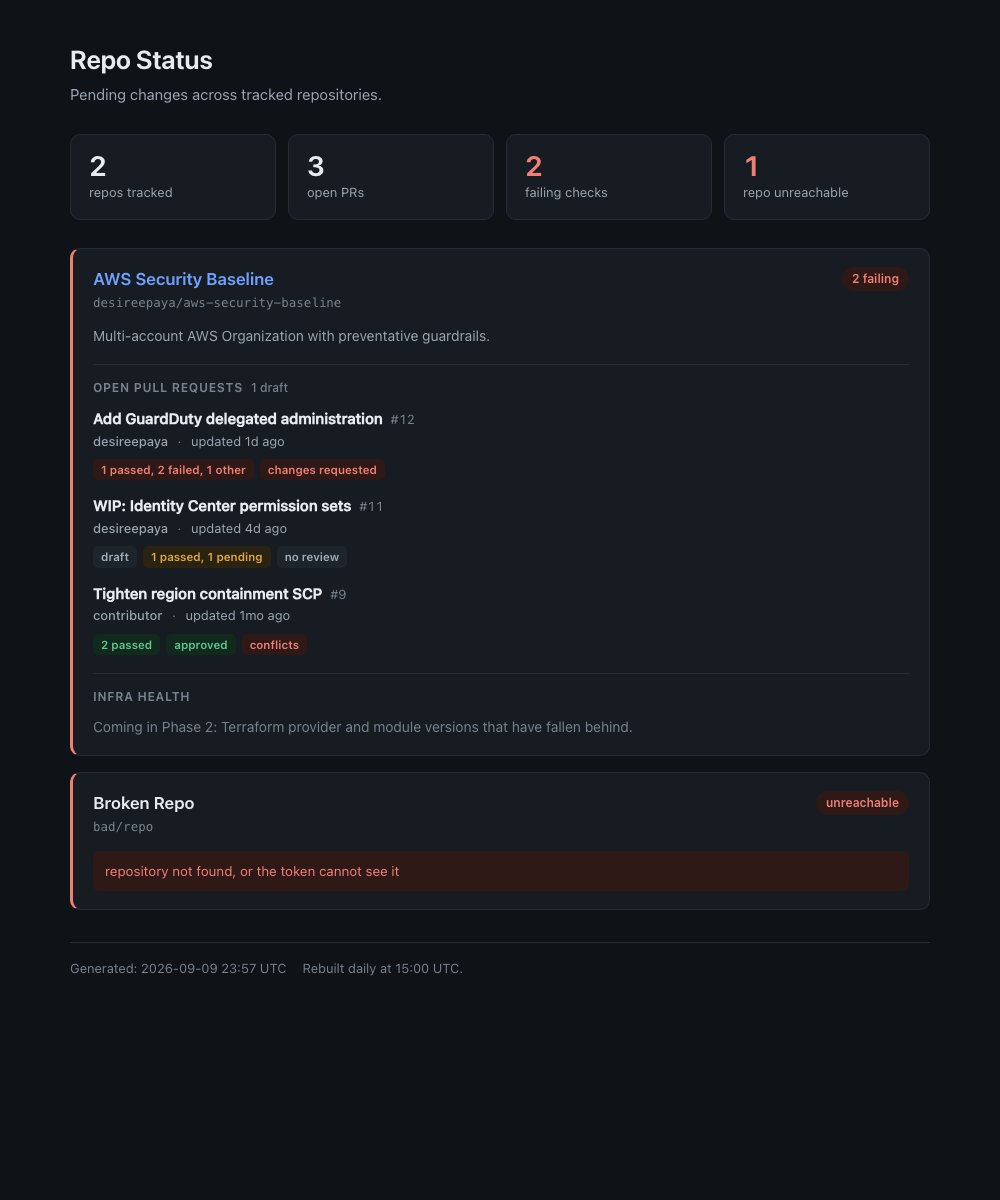
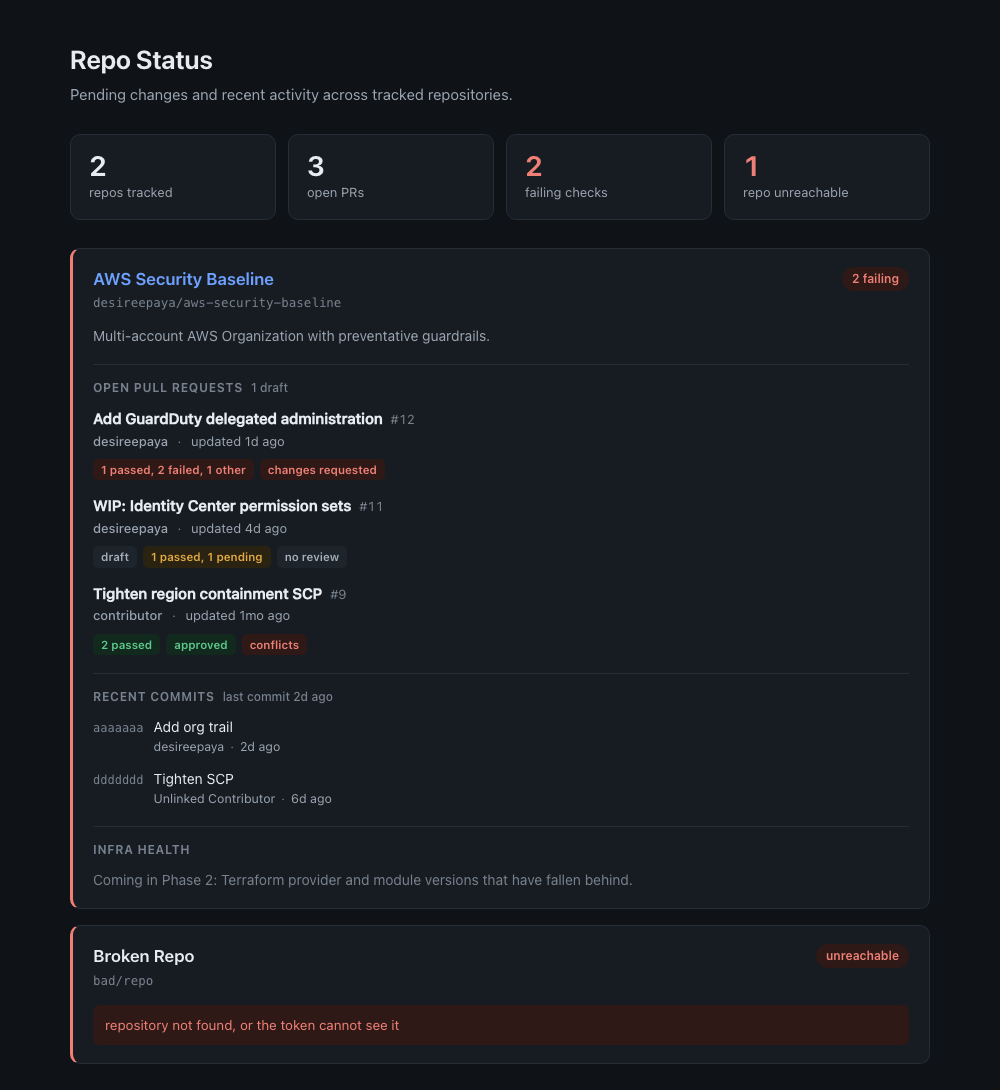
Show recent commits, so the page reflects how the work actually happens
Open PRs measure work waiting for review. Working solo and committing to
main, that is permanently zero, so the dashboard measured a workflow it
was never going to observe and rendered an empty page.

Each card now lists the five newest commits on the default branch with a
"last commit" recency line. One extra request per repo covers both.

No commit count. Granularity varies too much between one substantial
commit and twenty small fixes for the number to mean anything, and a low
count reads as inactive rather than careful. Recency answers the same
question without implying a score.

This widens Phase 1 from "pending changes" to "pending changes and
recent activity". Deliberate, and recorded in the plan.

The README now leads with a screenshot of the real page, which finally
has something on it, and keeps the fixture screenshot as a secondary
image for the PR features that live data cannot currently show.

Claude-Session: https://claude.ai/code/session_01VQ1uppD6jL2XGUz4YRr42J

diff --git a/static/style.css b/static/style.css
@@ -305,6 +305,49 @@ code {
 
 .tag-conflict { background: var(--bad-bg); color: var(--bad); }
 
+/* ---- Commit rows ---- */
+
+.commit-list {
+  list-style: none;
+  margin: 0;
+  padding: 0;
+  display: flex;
+  flex-direction: column;
+  gap: 11px;
+}
+
+.commit {
+  display: flex;
+  gap: 10px;
+  align-items: baseline;
+}
+
+.commit-sha {
+  flex: none;
+  font-family: ui-monospace, SFMono-Regular, "SF Mono", Menlo, monospace;
+  font-size: 12px;
+  color: var(--text-faint);
+}
+
+.commit-sha:hover { color: var(--accent); }
+
+.commit-body {
+  display: flex;
+  flex-direction: column;
+  min-width: 0;
+}
+
+.commit-title {
+  font-size: 14px;
+  overflow-wrap: anywhere;
+}
+
+.commit-meta {
+  margin-top: 1px;
+  color: var(--text-muted);
+  font-size: 12.5px;
+}
+
 /* ---- Footer ---- */
 
 .page-footer {

diff --git a/src/repo_status/collectors/github.py b/src/repo_status/collectors/github.py
@@ -6,7 +6,7 @@ often has zero open PRs — the populated render path has to be exercisable
 without waiting for real PRs to exist.
 
 Requests per repo: 1 (repo metadata) + 1 (workflow list) + 1 (PR list)
-+ 3 per open PR
++ 1 (recent commits) + 3 per open PR
 (detail for mergeable_state, reviews, check-runs). Comfortably inside the
 1,000 req/hr per-repo GITHUB_TOKEN ceiling on a daily cron.
 """
@@ -22,6 +22,7 @@ from ..models import (
     FAILED_CONCLUSIONS,
     PASSED_CONCLUSIONS,
     CheckSummary,
+    CommitSummary,
     PRSummary,
     RepoReport,
 )
@@ -126,6 +127,7 @@ class GitHubCollector:
             report.default_branch = info.get("default_branch") or ""
 
             report.workflow_count = self._workflow_count(repo.slug)
+            report.recent_commits = self._recent_commits(repo.slug)
 
             pulls = self._paginate(f"/repos/{repo.slug}/pulls", state="open")
             report.prs = [self._build_pr(repo.slug, pr) for pr in pulls]
@@ -155,6 +157,43 @@ class GitHubCollector:
         except ValueError:
             return None
         return sum(1 for w in workflows if w.get("state") == "active")
+
+    def _recent_commits(self, slug: str, limit: int = 5) -> list[CommitSummary]:
+        """The newest commits on the default branch.
+
+        A repo with no commits yet answers 409, which is not an error worth
+        surfacing: an empty repo simply has nothing to show here.
+        """
+        response = self._get(f"/repos/{slug}/commits", per_page=limit)
+        if not response.is_success:
+            return []
+
+        try:
+            items = response.json()
+        except ValueError:
+            return []
+
+        commits = []
+        for item in items[:limit]:
+            commit = item.get("commit") or {}
+            message = (commit.get("message") or "").strip()
+            commit_author = commit.get("author") or {}
+            # `author` is the linked GitHub account and can be null for
+            # commits made under an address with no account attached.
+            account = item.get("author") or {}
+
+            commits.append(
+                CommitSummary(
+                    sha=item.get("sha", ""),
+                    title=message.splitlines()[0] if message else "(no message)",
+                    author=account.get("login")
+                    or commit_author.get("name")
+                    or "unknown",
+                    url=item.get("html_url", ""),
+                    committed_at=_parse_ts(commit_author.get("date")),
+                )
+            )
+        return commits
 
     def _build_pr(self, slug: str, pr: dict) -> PRSummary:
         number = pr["number"]

diff --git a/src/repo_status/models.py b/src/repo_status/models.py
@@ -98,6 +98,19 @@ class PRSummary:
         }.get(self.review_state, self.review_state)
 
 
+@dataclass(frozen=True)
+class CommitSummary:
+    sha: str
+    title: str
+    author: str
+    url: str
+    committed_at: datetime
+
+    @property
+    def short_sha(self) -> str:
+        return self.sha[:7]
+
+
 @dataclass
 class RepoReport:
     slug: str
@@ -106,6 +119,9 @@ class RepoReport:
     description: str = ""
     default_branch: str = ""
     prs: list[PRSummary] = field(default_factory=list)
+    # Most recent commits on the default branch, newest first. Open PRs say
+    # what is waiting; these say what is actually moving.
+    recent_commits: list[CommitSummary] = field(default_factory=list)
     # Number of active CI workflows in the repo. None means we could not
     # determine it, which is deliberately distinct from a known zero: only a
     # known zero justifies saying "no checks configured".
@@ -137,6 +153,10 @@ class RepoReport:
     @property
     def check_run_count(self) -> int:
         return sum(pr.checks.total for pr in self.prs)
+
+    @property
+    def last_commit_at(self) -> datetime | None:
+        return self.recent_commits[0].committed_at if self.recent_commits else None
 
     @property
     def state(self) -> str:

diff --git a/README.md b/README.md
@@ -3,7 +3,7 @@
 
 # Repo Status Dashboard
 
-A dashboard that shows what work is pending across my GitHub repositories. It rebuilds itself every day and publishes to a public web page.
+A dashboard that shows what work is pending, and what has recently changed, across my GitHub repositories. It rebuilds itself every day and publishes to a public web page.
 
 **Live**: https://desireepaya.github.io/repo-status-dashboard/
 
@@ -17,12 +17,17 @@ For each repository being tracked:
 - Whether the automated tests on each pull request passed, failed, or are still running
 - Review status: approved, changes requested, or waiting on a reviewer
 - A warning if a pull request has merge conflicts
+- The five most recent commits on the main branch, and how long ago the last one landed
 
 At the top of the page, a summary strip shows totals: repositories tracked, open pull requests, and test failures.
 
-![Dashboard showing open pull requests, test results and review status](docs/images/dashboard-populated.png)
+![The dashboard as it currently looks, listing recent commits on the tracked repository](docs/images/dashboard-live.png)
 
-*Sample data. The pull requests above are test fixtures, not real ones, used to check how the page renders when there is work in progress. The live link shows the real current state.*
+The page above is the real one, generated from live data. Since I work alone and commit straight to the main branch, there are usually no open pull requests to show, so here is the same page with pull requests present:
+
+![The same dashboard with three open pull requests, showing test results, review status and a merge conflict warning](docs/images/dashboard-populated.png)
+
+*The second image uses test fixtures rather than real pull requests, so that the review and test features can be seen. The live link always shows the real current state.*
 
 ## Why I built it
 
@@ -35,7 +40,7 @@ config/repos.yaml  ->  GitHub API  ->  HTML page  ->  published to GitHub Pages
 ```
 
 1. A config file lists which repositories to track.
-2. A Python script calls the GitHub API and collects pull request and test data.
+2. A Python script calls the GitHub API and collects pull request, test and commit data.
 3. Jinja2 templates turn that data into a single HTML page.
 4. A scheduled GitHub Actions job runs the whole pipeline daily at 15:00 UTC and publishes the result.
 
@@ -70,6 +75,10 @@ This changes if I ever track a private repository. The automatic token cannot re
 
 **One repository that fails to load does not break the page.** It renders as an "unreachable" card with the reason, and the rest of the dashboard still builds.
 
+**Recent commits are listed, but not counted.** Open pull requests measure work that is waiting for review, which assumes a review workflow exists. Working alone and committing straight to the main branch, that number is almost always zero, so the dashboard had very little to show. Listing the last five commits fixes that, because it says what is actually being worked on.
+
+A count of commits over the last month was considered and rejected. One substantial commit and twenty small fixes produce very different numbers and close to the opposite meaning, so the figure invites a comparison it cannot support. On a page a recruiter might scan, a low number reads as inactive when it may mean careful. A single "last commit" timestamp answers the same question without implying a score.
+
 **The test results tile says what was actually observed, not just a count of zero.** "0 failing tests" sounds reassuring, but it is the same number whether every test passed or no tests exist at all. A dashboard that cannot tell those apart is worse than no dashboard, because it reports good news it has not verified. So the tile distinguishes four cases: tests ran and some failed, tests ran and all passed, tests are set up but have not reported yet, and no tests are set up at all. Deciding which applies needs one extra API call per repository to ask whether any workflows exist. If that call fails, the dashboard falls back to the weaker wording rather than claiming something it could not confirm.
 
 ## Planned next
@@ -84,7 +93,7 @@ This changes if I ever track a private repository. The automatic token cannot re
 
 **Uncommitted local work.** A scheduled job running on GitHub's servers has no visibility into my laptop. Reporting on it would mean either installing something locally or showing data that is out of date.
 
-**Unreleased commit counts.** This was planned as a way to show work that had been merged but not released. It was cut because I do not tag releases yet, so it would have shown an empty result every time. Worth adding once tagging starts.
+**Commit counts.** Two versions of this were considered. Counting commits since the last release was cut because I do not tag releases yet, so it would have shown an empty result every time. Counting commits over the last month was cut as a vanity metric, for the reasons in the design decisions above. What replaced both is the list of recent commits, which shows the work itself rather than a number standing in for it.
 
 ## Known limitation
 

diff --git a/repo-status-dashboard-plan.md b/repo-status-dashboard-plan.md
@@ -4,7 +4,7 @@
 
 You want a shareable static-HTML dashboard that reports the current state of your repos — starting with `desireepaya/aws-security-baseline` and expandable via a hand-configured list. Regenerated on a GitHub Actions cron and published to public GitHub Pages.
 
-**Phase 1 (this plan)**: pending changes only — open PRs and CI conclusions. Live public URL, end-to-end.
+**Phase 1 (this plan)**: open PRs, CI conclusions, and recent commit activity. Live public URL, end-to-end.
 
 **Phase 2 (deferred)**: Terraform infra health (provider/module version lag from `.terraform.lock.hcl`).
 
@@ -56,6 +56,8 @@ Adding a new repo is a pure-config change — no code edits. Phase 2 will add an
 One authenticated call chain per configured repo:
 - Open PRs: number, title, author, draft flag, `mergeable_state`, requested reviewers, review decision.
 - For each PR: latest commit's check-runs summary (pass / fail / pending count).
+- Active workflow count per repo, so "no checks failing" can be distinguished from "no checks configured".
+- Five most recent default-branch commits, plus a "last commit" recency line.
 - Uses `GITHUB_TOKEN` in GHA; a local PAT env var (`GH_TOKEN`) for dev.
 - Prefer plain `httpx` calls over `PyGithub` to keep the dependency surface small and responses easy to stub in local dev.
 
@@ -99,7 +101,7 @@ One authenticated call chain per configured repo:
 
 ## Phasing
 
-1. **Phase 1 — MVP + Ship**: repo skeleton, GitHub collector, Jinja render, local CLI, GHA cron, Pages deploy. Live public URL. Monitors just `aws-security-baseline`. PR/CI data only. **This is where Phase 1 ends — you should have a working live URL.**
+1. **Phase 1 — MVP + Ship**: repo skeleton, GitHub collector, Jinja render, local CLI, GHA cron, Pages deploy. Live public URL. Monitors just `aws-security-baseline`. PR, CI and recent-commit data. **This is where Phase 1 ends — you should have a working live URL.**
 2. **Phase 2 — Terraform metadata collector**: add `collectors/terraform.py`, `.terraform.lock.hcl` parsing, registry version-lag comparison, fixture tests, extend config schema with `terraform_stacks`.
 3. **Extend**: add more repos to `repos.yaml`.
 4. **Later**: drift detection via real `terraform plan` (needs AWS OIDC role).
@@ -113,7 +115,7 @@ One authenticated call chain per configured repo:
 ## Settled decisions
 
 - **GitHub repo name**: `repo-status-dashboard` (matches the local directory; no shorter alias).
-- **"Commits since last tag"**: dropped from Phase 1 — no tags in use yet, so the surrogate would report nothing meaningful. Phase 1 surfaces PR + CI data only. Revisit if/when releases get tagged.
+- **"Commits since last tag"**: dropped, since no tags are in use. Superseded during implementation by a plain list of the five most recent default-branch commits plus a "last commit" recency line, which needs no tags and answers the same question better. A 30-day commit *count* was considered and rejected as a vanity metric: commit granularity varies too much for the number to carry meaning, and a low count misleads downward on a portfolio page. This widens Phase 1 from "pending changes" to "pending changes and recent activity" — a deliberate call, not scope drift.
 - **No dedicated token for GitHub Actions** — use the built-in `GITHUB_TOKEN`. Public repo data is readable by any authenticated token, so the dashboard repo's own `GITHUB_TOKEN` can read PRs and check-runs from the target repos; Pages deploy is covered by the `permissions:` block. A PAT would be a *downgrade*: long-lived, stored as a secret, manually rotated, broader scope than needed, on a public-facing project. `GITHUB_TOKEN` is minted per job and expires with it.
   - Rate limit is a non-issue: cost is ~`1 + (open PRs)` requests per target repo against a 1,000 req/hr per-repo ceiling, on a daily cron.
   - **Trigger to revisit: the first private repo added to `repos.yaml`.** `GITHUB_TOKEN` cannot read a private repo outside its own — a hard boundary, not a permissions tweak. At that point use a fine-grained PAT (read-only Pull requests + Checks + Metadata, selected repos, with an expiry) as a repo secret, or a GitHub App installation token for short-lived credentials. The collector needs no change either way — it reads whatever token is in the env var.
